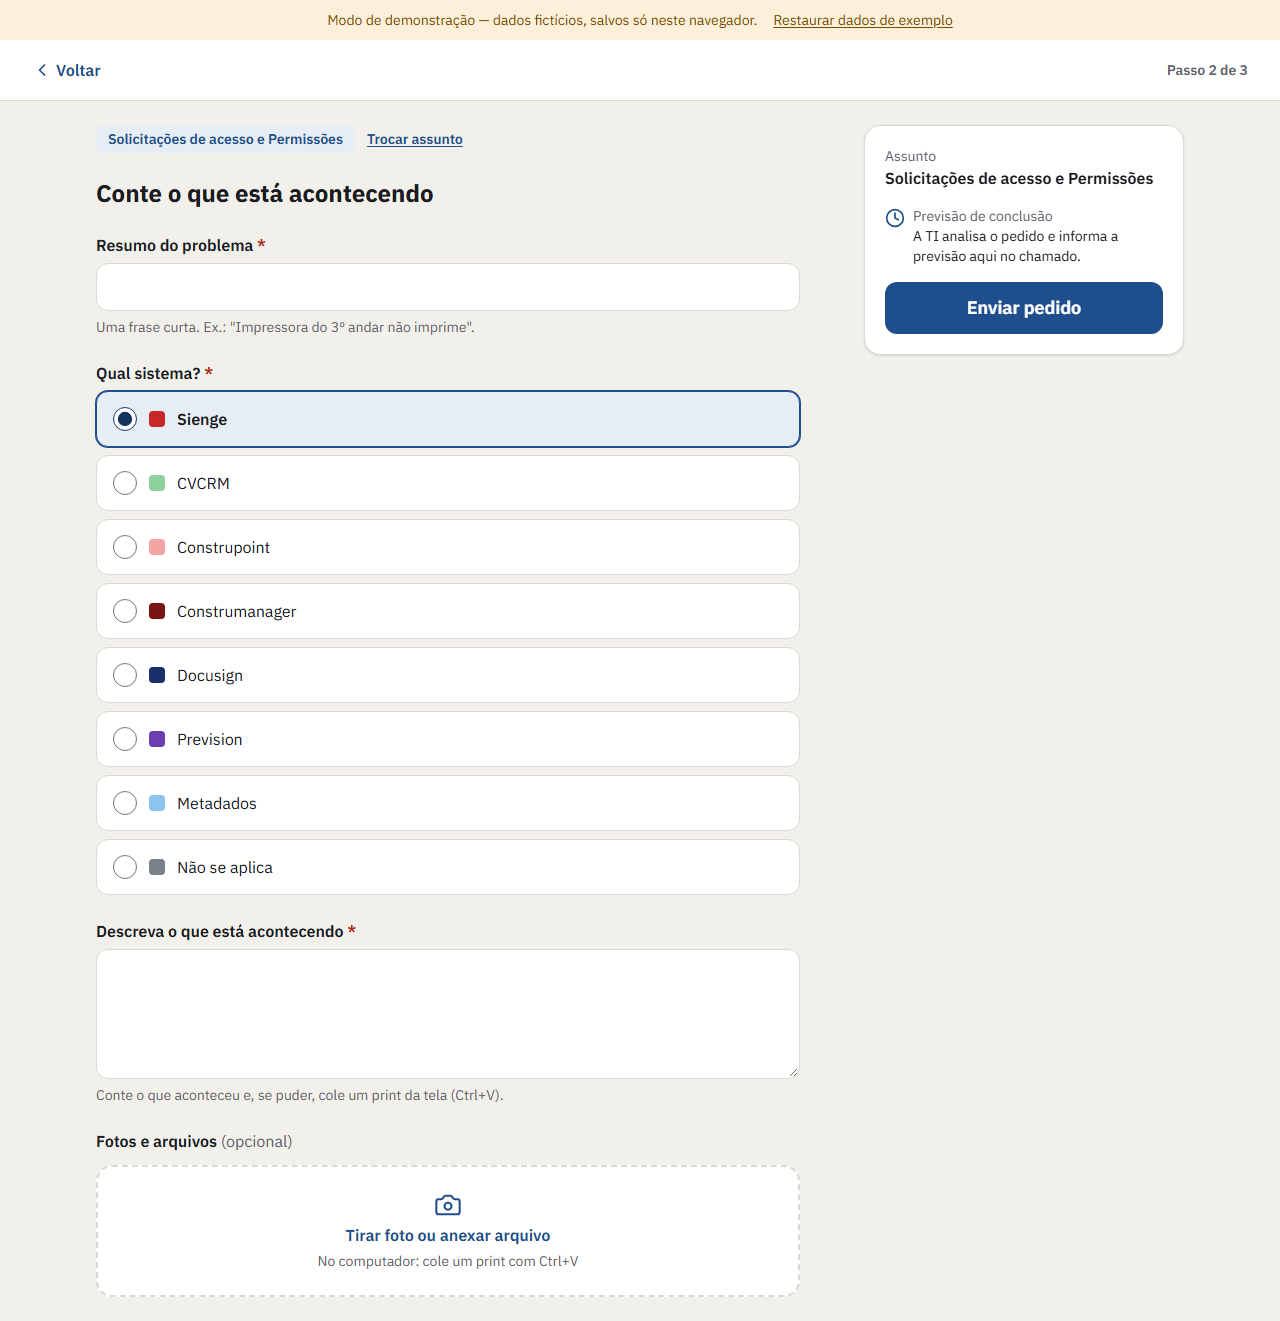
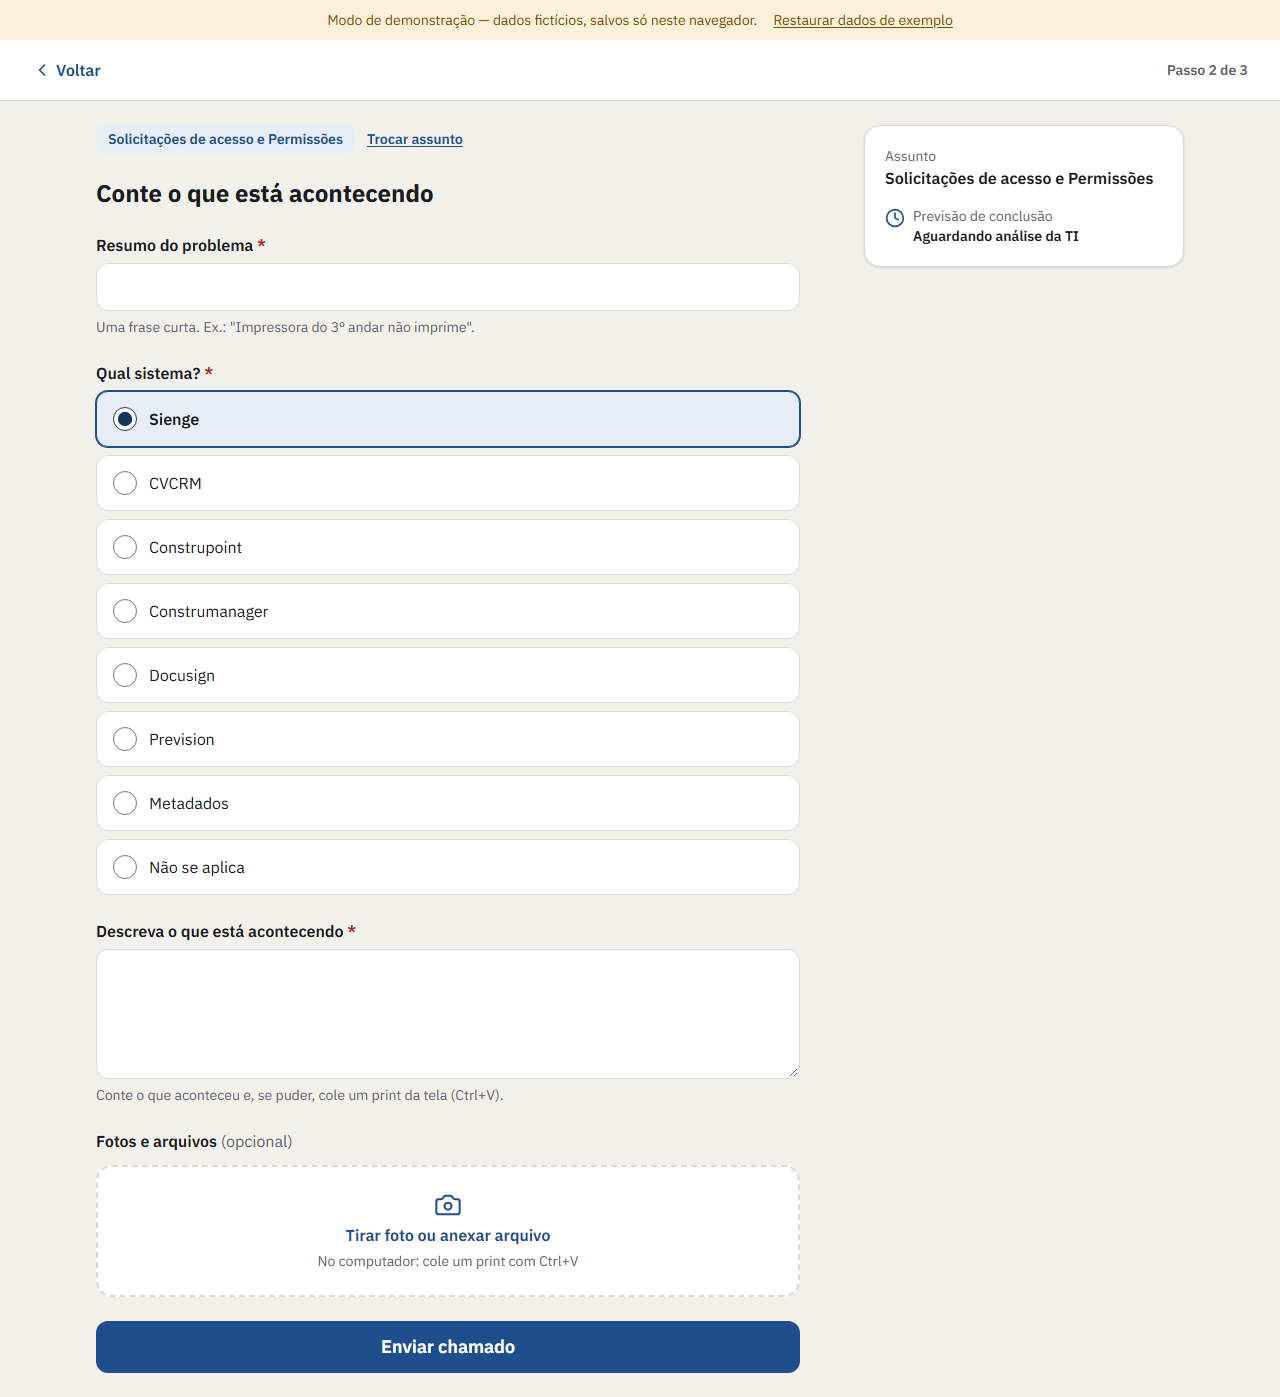
feat(portal): ajustes do Renato na visão do usuário
- Olá, [nome]! e primeiro acesso sem telefone; botão Falar no Teams para a TI
- sem "Na dúvida, use Outros"; Enviar chamado no fim do formulário
- sem cores dos sistemas no formulário; previsão Aguardando análise da TI
- P-041 (setores do RH) e P-042 (ordem dos assuntos por volume)

diff --git a/apps/web/components/abertura/FormularioChamado.tsx b/apps/web/components/abertura/FormularioChamado.tsx
@@ -204,9 +204,19 @@ function FormularioCarregado({
           ))}
 
           <SeletorAnexos arquivos={arquivos} aoAdicionar={adicionar} aoRemover={remover} />
+
+          {/* Envio no fim do formulário, abaixo do último campo (ajuste do Renato, 2026-10-08). */}
+          <Botao
+            type="submit"
+            carregando={enviando}
+            larguraTotal
+            className="min-h-13 text-lg"
+          >
+            Enviar chamado
+          </Botao>
         </div>
 
-        {/* Computador: resumo e envio sempre à vista, ao lado do formulário. */}
+        {/* Computador: resumo ao lado do formulário (o envio fica no fim do formulário). */}
         <aside className="hidden lg:block">
           <div className="sticky top-6 flex flex-col gap-4 rounded-2xl border border-borda bg-superficie p-5 shadow-sm">
             <div>
@@ -217,9 +227,7 @@ function FormularioCarregado({
               <Clock aria-hidden="true" className="mt-0.5 size-5 shrink-0 text-primaria" />
               <div>
                 <p className="text-sm text-texto-suave">Previsão de conclusão</p>
-                <p className="text-sm">
-                  A TI analisa o pedido e informa a previsão aqui no chamado.
-                </p>
+                <p className="text-sm font-semibold">Aguardando análise da TI</p>
               </div>
             </div>
             {arquivos.length > 0 ? (
@@ -229,20 +237,8 @@ function FormularioCarregado({
                   : `${arquivos.length} arquivos anexados`}
               </p>
             ) : null}
-            <Botao type="submit" carregando={enviando} larguraTotal className="min-h-13 text-lg">
-              Enviar pedido
-            </Botao>
           </div>
         </aside>
-      </div>
-
-      {/* Celular: rodapé fixo com o envio (mockup, tela 2). A previsão quem informa é a TI (ADR 0009). */}
-      <div className="sticky bottom-0 border-t border-borda bg-superficie lg:hidden">
-        <div className="mx-auto flex w-full max-w-6xl flex-col gap-3 px-4 py-3 md:px-8">
-          <Botao type="submit" carregando={enviando} larguraTotal className="min-h-13 text-lg">
-            Enviar pedido
-          </Botao>
-        </div>
       </div>
     </form>
   );

diff --git a/apps/web/components/abertura/FormularioChamado.test.tsx b/apps/web/components/abertura/FormularioChamado.test.tsx
@@ -68,14 +68,16 @@ describe("FormularioChamado", () => {
     expect(
       screen.getByRole("radio", { name: "O escritório ou a obra inteira" }),
     ).toBeInTheDocument();
-    expect(
-      await screen.findByText(/A TI analisa o pedido e informa a previsão/),
-    ).toBeInTheDocument();
+    expect(await screen.findByText("Aguardando análise da TI")).toBeInTheDocument();
+    // Um botão só, no fim do formulário (ajuste do Renato).
+    expect(screen.getAllByRole("button", { name: "Enviar chamado" })).toHaveLength(1);
+    // Sem cores nos sistemas do formulário.
+    expect(document.querySelector('[class*="bg-sis-"]')).toBeNull();
   });
 
   it("enviar vazio mostra o erro embaixo de cada campo obrigatório", async () => {
     renderizar();
-    fireEvent.click((await screen.findAllByRole("button", { name: "Enviar pedido" }))[0]);
+    fireEvent.click((await screen.findAllByRole("button", { name: "Enviar chamado" }))[0]);
     expect(
       await screen.findByText("Preencha o campo Resumo do problema para continuar."),
     ).toBeInTheDocument();
@@ -96,7 +98,7 @@ describe("FormularioChamado", () => {
     fireEvent.change(screen.getByLabelText(/Descreva o que está acontecendo/), {
       target: { value: "Roteador com luz vermelha" },
     });
-    fireEvent.click(screen.getAllByRole("button", { name: "Enviar pedido" })[0]);
+    fireEvent.click(screen.getAllByRole("button", { name: "Enviar chamado" })[0]);
 
     await waitFor(() => expect(navegacao.replace).toHaveBeenCalled());
     const criado = lerEstado().chamados.at(-1)!;
@@ -154,7 +156,7 @@ describe("FormularioChamado", () => {
       },
     });
     await screen.findByText(/^print-\d{8}-\d{6}\.png$/);
-    fireEvent.click(screen.getAllByRole("button", { name: "Enviar pedido" })[0]);
+    fireEvent.click(screen.getAllByRole("button", { name: "Enviar chamado" })[0]);
 
     expect(
       await screen.findByText(

diff --git a/apps/web/components/tecnico/atendimento/CabecalhoChamado.tsx b/apps/web/components/tecnico/atendimento/CabecalhoChamado.tsx
@@ -1,6 +1,14 @@
 "use client";
 
-import { CalendarClock, ChevronLeft, Lock, Mail, MoreHorizontal, Phone } from "lucide-react";
+import {
+  CalendarClock,
+  ChevronLeft,
+  Lock,
+  Mail,
+  MessageCircle,
+  MoreHorizontal,
+} from "lucide-react";
+import { linkChatTeams } from "@/lib/teams";
 import Link from "next/link";
 import { useEffect, useRef, useState } from "react";
 import { Avatar } from "@/components/ui/Avatar";
@@ -309,14 +317,15 @@ export function CabecalhoChamado({
                 ) : null}
               </span>
               <span className="flex flex-wrap gap-x-3 text-sm">
-                {solicitante.telefone ? (
-                  <a
-                    href={`tel:${solicitante.telefone}`}
-                    className="inline-flex items-center gap-1 text-primaria underline"
-                  >
-                    <Phone aria-hidden="true" className="size-3.5" /> {solicitante.telefone}
-                  </a>
-                ) : null}
+                {/* Só um link que abre o chat do Teams com a pessoa (sem API — integrações: só login e bot). */}
+                <a
+                  href={linkChatTeams(solicitante.email)}
+                  target="_blank"
+                  rel="noopener noreferrer"
+                  className="inline-flex items-center gap-1 font-semibold text-primaria underline"
+                >
+                  <MessageCircle aria-hidden="true" className="size-3.5 shrink-0" /> Falar no Teams
+                </a>
                 <a
                   href={`mailto:${solicitante.email}`}
                   className="inline-flex min-w-0 items-center gap-1 truncate text-primaria underline"

diff --git a/apps/web/components/solicitante/FormPrimeiroAcesso.tsx b/apps/web/components/solicitante/FormPrimeiroAcesso.tsx
@@ -17,7 +17,6 @@ export function FormPrimeiroAcesso() {
   const { mostrarErro } = useToast();
   const { dados: perfil } = useConsulta(consultarPerfil);
   const [departamento, setDepartamento] = useState("");
-  const [telefone, setTelefone] = useState("");
   const [errosCampo, setErrosCampo] = useState<Record<string, string>>({});
   const [enviando, setEnviando] = useState(false);
 
@@ -31,7 +30,8 @@ export function FormPrimeiroAcesso() {
     setEnviando(true);
     setErrosCampo({});
     try {
-      await fonte.atualizarMeuPerfil({ departamento, telefone: telefone || null });
+      // Sem telefone: o contato com a TI é pelo Teams (ajuste do Renato, 2026-10-08).
+      await fonte.atualizarMeuPerfil({ departamento, telefone: null });
       router.replace("/");
     } catch (erro) {
       if (erro instanceof ErroApp && erro.campos.length > 0) {
@@ -53,16 +53,6 @@ export function FormPrimeiroAcesso() {
         value={departamento}
         onChange={(e) => setDepartamento(e.target.value)}
         erro={errosCampo.departamento}
-      />
-      <Campo
-        rotulo="Telefone ou celular"
-        name="telefone"
-        type="tel"
-        autoComplete="tel"
-        ajuda="Opcional. Ajuda a TI a falar com você se precisar."
-        value={telefone}
-        onChange={(e) => setTelefone(e.target.value)}
-        erro={errosCampo.telefone}
       />
       <Botao type="submit" carregando={enviando} larguraTotal>
         Continuar

diff --git a/apps/web/e2e/fluxos.spec.ts b/apps/web/e2e/fluxos.spec.ts
@@ -19,11 +19,11 @@ test("Ana abre um chamado colando um print e recebe o número (previsão vem da 
   await colarImagem(page, "textarea");
   await expect(page.getByText(/^print-\d{8}-\d{6}\.png$/)).toBeVisible();
 
-  await page.getByRole("button", { name: "Enviar pedido" }).click();
+  await page.getByRole("button", { name: "Enviar chamado" }).click();
   await expect(page.getByText("Pronto! Seu chamado é o")).toBeVisible();
   await expect(page.getByText("#46")).toBeVisible();
   await expect(page.getByText(/Você vai receber avisos no/)).toBeVisible();
-  await expect(page.getByText("A TI vai analisar e informar")).toBeVisible();
+  await expect(page.getByText("Aguardando análise da TI")).toBeVisible();
 
   await page.getByRole("link", { name: "Acompanhar meu chamado" }).click();
   await expect(page).toHaveURL(/\/meus-chamados\/46$/);
@@ -199,7 +199,7 @@ test("erros aparecem com a mensagem amigável do catálogo", async ({ page, cont
   await entrar(page, "Ana Souza");
   await page.goto("/abrir/2");
 
-  await page.getByRole("button", { name: "Enviar pedido" }).click();
+  await page.getByRole("button", { name: "Enviar chamado" }).click();
   await expect(page.getByText("Preencha o campo Resumo do problema para continuar.")).toBeVisible();
 
   const arquivo = page.locator('input[type="file"]');

diff --git a/apps/web/components/chamado/ChatChamado.test.tsx b/apps/web/components/chamado/ChatChamado.test.tsx
@@ -120,11 +120,11 @@ describe("ChatChamado", () => {
     expect(screen.getByText("Mensagem importante")).toBeInTheDocument();
   });
 
-  it("chamado encerrado: sem campo de resposta e com 'Abrir novo pedido' citando o número", async () => {
+  it("chamado encerrado: sem campo de resposta e com 'Abrir novo chamado' citando o número", async () => {
     renderizar(ANA, 35);
     expect(await screen.findByText("Este chamado foi encerrado.")).toBeInTheDocument();
     expect(screen.queryByRole("textbox", { name: "Mensagem" })).not.toBeInTheDocument();
-    expect(screen.getByRole("link", { name: "Abrir novo pedido" })).toHaveAttribute(
+    expect(screen.getByRole("link", { name: "Abrir novo chamado" })).toHaveAttribute(
       "href",
       "/?referente=35",
     );

diff --git a/apps/web/components/tecnico/atendimento/AtendimentoChamado.test.tsx b/apps/web/components/tecnico/atendimento/AtendimentoChamado.test.tsx
@@ -51,6 +51,10 @@ describe("AtendimentoChamado", () => {
     const solicitante = await screen.findByRole("region", { name: "Solicitante" });
     expect(within(solicitante).getByText("Ana Souza")).toBeInTheDocument();
     expect(within(solicitante).getByText("ana@teste.local")).toBeInTheDocument();
+    expect(within(solicitante).getByRole("link", { name: "Falar no Teams" })).toHaveAttribute(
+      "href",
+      "https://teams.microsoft.com/l/chat/0/0?users=ana%40teste.local",
+    );
     const historico = await screen.findByRole("region", { name: "Histórico" });
     expect(within(historico).getByText("Aberto por Ana Souza")).toBeInTheDocument();
     expect(within(historico).getByText("Em atendimento → Aguardando usuário")).toBeInTheDocument();

diff --git a/apps/web/components/ui/OpcaoCartao.tsx b/apps/web/components/ui/OpcaoCartao.tsx
@@ -10,7 +10,6 @@ export function OpcaoCartao({
   aoSelecionar,
   multipla = false,
   id,
-  marcador,
 }: {
   nome: string;
   valor: string;
@@ -19,8 +18,6 @@ export function OpcaoCartao({
   aoSelecionar: (valor: string) => void;
   multipla?: boolean;
   id?: string;
-  /** Classe de cor de um quadradinho ao lado do texto (ex.: cor do sistema — lib/sistemas.ts). */
-  marcador?: string;
 }) {
   return (
     <label
@@ -39,9 +36,6 @@ export function OpcaoCartao({
         onChange={() => aoSelecionar(valor)}
         className="size-6 shrink-0 accent-primaria"
       />
-      {marcador ? (
-        <span aria-hidden="true" className={`size-4 shrink-0 rounded ${marcador}`} />
-      ) : null}
       <span>{rotulo}</span>
     </label>
   );

diff --git a/apps/web/components/abertura/ConfirmacaoChamado.tsx b/apps/web/components/abertura/ConfirmacaoChamado.tsx
@@ -60,7 +60,7 @@ export function ConfirmacaoChamado({ id }: { id: number }) {
               <p className="text-lg font-bold">
                 {chamado.prazoSla
                   ? maiuscula(formatarPrevisao(chamado.prazoSla))
-                  : "A TI vai analisar e informar"}
+                  : "Aguardando análise da TI"}
               </p>
             </div>
           </div>
@@ -85,7 +85,7 @@ export function ConfirmacaoChamado({ id }: { id: number }) {
             href={caminhos.inicio}
             className={`${BASE_BOTAO} ${ESTILOS_BOTAO.contorno} min-h-13 text-lg`}
           >
-            Abrir outro pedido
+            Abrir outro chamado
           </Link>
         </div>
       </div>

diff --git a/apps/web/app/(solicitante)/page.tsx b/apps/web/app/(solicitante)/page.tsx
@@ -13,9 +13,7 @@ export default async function PaginaAbrirChamado({ searchParams }: PageProps<"/"
       <div className="flex flex-col gap-2">
         <p className="text-sm font-semibold text-texto-suave">Passo 1 de 3</p>
         <h1 className="text-3xl font-bold">Com o que você precisa de ajuda?</h1>
-        <p className="text-texto-suave">
-          Escolha o assunto. Na dúvida, use <strong className="text-texto">Outros</strong>.
-        </p>
+        <p className="text-texto-suave">Escolha o assunto.</p>
       </div>
       <GradeCategorias referente={referente} />
     </div>

diff --git a/apps/web/app/primeiro-acesso/page.tsx b/apps/web/app/primeiro-acesso/page.tsx
@@ -13,7 +13,7 @@ export default async function PaginaPrimeiroAcesso() {
       <main className="flex flex-1 items-center justify-center px-4 py-10">
         <Card className="flex w-full max-w-md flex-col gap-4 p-6">
           <div>
-            <h1 className="text-2xl font-semibold">Boas-vindas, {usuario.nome.split(" ")[0]}!</h1>
+            <h1 className="text-2xl font-semibold">Olá, {usuario.nome.split(" ")[0]}!</h1>
             <p className="mt-2 text-texto-suave">
               Antes de começar, conte em que setor você trabalha. Só vamos perguntar uma vez.
             </p>

diff --git a/apps/web/app/(tecnico)/atendimento/novo/page.tsx b/apps/web/app/(tecnico)/atendimento/novo/page.tsx
@@ -14,9 +14,7 @@ export default async function PaginaNovoChamadoTecnico({
       <div className="flex flex-col gap-2">
         <p className="text-sm font-semibold text-texto-suave">Passo 1 de 3</p>
         <h1 className="text-3xl font-bold">Com o que você precisa de ajuda?</h1>
-        <p className="text-texto-suave">
-          Escolha o assunto. Na dúvida, use <strong className="text-texto">Outros</strong>.
-        </p>
+        <p className="text-texto-suave">Escolha o assunto.</p>
       </div>
       <GradeCategorias referente={referente} />
     </div>
